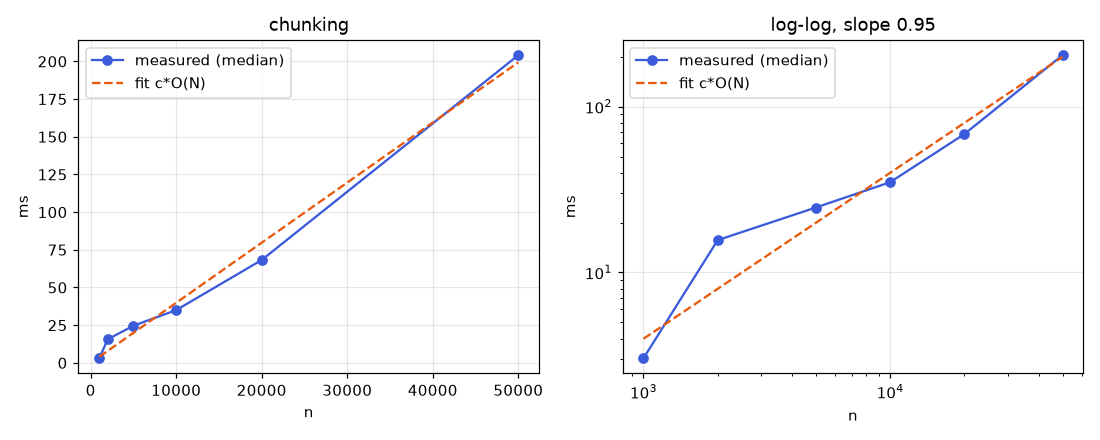
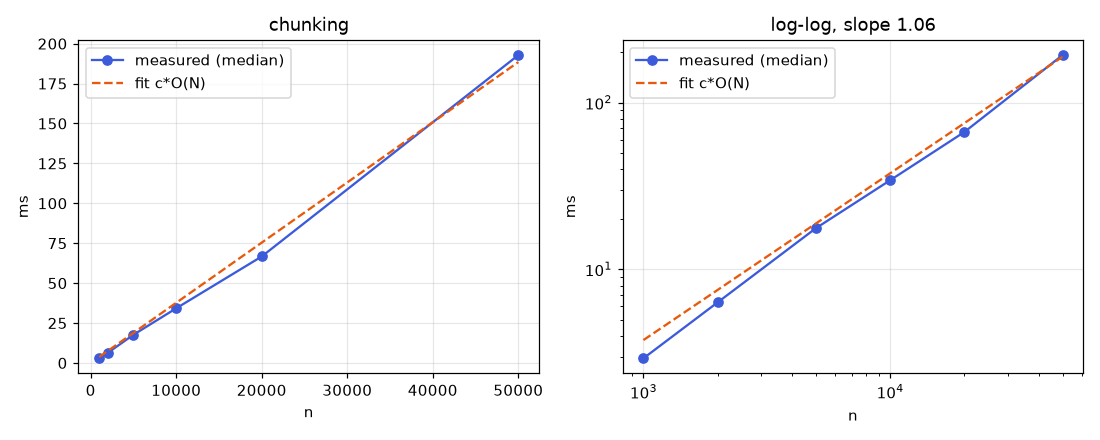
Re-run all benchmarks on final code; measured tables and slopes for library and IA panel stages; fill README scorecard

diff --git a/README.md b/README.md
@@ -147,14 +147,21 @@ n = chunks, d = embedding dim, k = candidates, K = clusters, i = iterations, L =
 
 | Operation | Time | Measured slope |
 |---|---|---|
-| Chunking | O(N) | 0.95 |
-| Brute-force search | O(n d + n log k) | 0.92 |
-| HNSW search | about O(d log n) | 0.42 |
+| Chunking | O(N) | 1.06 |
+| Brute-force search | O(n d + n log k) | 0.85 |
+| HNSW search | about O(d log n) | 0.39 |
 | BM25 query | O(postings), O(n q) in rank_bm25 | 1.15 |
 | RRF | O(k log k) | |
 | Cross-encoder rerank | O(k (q+L)^2 d) | |
-| k-means | O(n K i d) | 0.63 |
-| PCA to 2D | O(n d^2) | -0.04 (solver switching, see docs) |
+| k-means | O(n K i d) | 0.65 |
+| PCA to 2D | O(n d^2) | -0.07 (solver switching, see docs) |
+| Outliers (z-score) | O(n d) | 0.52 |
+| Role-scoped answer | O(n_s) | 0.78 |
+| Compare by tradition | O(G n_g) | 0.90 |
+| filterHits | O(r) | 1.22 |
+| clusterHits | O(r^2 d) silhouette | 1.81 |
+| rankRelated | O(r d + r log r) | 0.97 |
+| Book selector (selectBooks) | O(B + s) | 0.78 |
 
 <p align="center"><img src="docs/benchmarks/overview.png" alt="Runtime vs n, log-log" width="560"></p>
 
@@ -217,30 +224,39 @@ Two Internet Archive books (KJV 1611 reprint, Rodwell Koran), `multilingual-e5-s
 
 | Stage | n=500 | 1,000 | 2,000 | 4,000 | 8,000 |
 |---|---|---|---|---|---|
-| Outliers | 14.57 | 23.27 | 15.90 | 19.09 | 62.57 |
-| Auto-tags | 0.16 | 0.07 | 0.12 | 0.24 | 0.53 |
-| Manifest CSV | 0.06 | 0.12 | 0.08 | 0.16 | 0.32 |
-| Role-scoped answer | 13.77 | 11.37 | 23.40 | 24.84 | 89.91 |
-| Compare by tradition | 22.92 | 23.48 | 24.97 | 34.66 | 137.83 |
+| Outliers (z-score) | 6.83 | 11.52 | 7.31 | 14.85 | 36.01 |
+| Book auto-tags | 0.10 | 0.07 | 0.12 | 0.50 | 0.40 |
+| Manifest CSV | 0.08 | 0.11 | 0.08 | 0.16 | 0.28 |
+| Role-scoped answer | 4.23 | 4.45 | 8.16 | 16.37 | 32.78 |
+| Compare by tradition | 6.16 | 9.60 | 14.04 | 34.31 | 74.67 |
 
 <p align="center"><img src="docs/benchmarks/library_stages.png" width="410" alt="Library stages"> <img src="docs/benchmarks/browser_ann.png" width="410" alt="Browser ANN"></p>
 
-> **TODO (benchmarks worker):** no measured benchmark yet for the IA panel stages (`filterHits`, `clusterHits`, `rankRelated`). Their predicted costs are in [docs/COMPLEXITY.md](docs/COMPLEXITY.md#internet-archive-panel-filters-book-selector-result-clustering). Embed the graph here once `docs/benchmarks/` has it.
+IA panel stages, ms by r hits:
+
+| Stage | r=25 | 50 | 100 | 200 | 400 | Slope |
+|---|---|---|---|---|---|---|
+| filterHits | 0.005 | 0.011 | 0.042 | 0.127 | 0.106 | 1.22 |
+| clusterHits | 13.133 | 32.446 | 121.617 | 464.163 | 1810.689 | 1.81 |
+| rankRelated | 0.020 | 0.039 | 0.072 | 0.161 | 0.281 | 0.97 |
+| Book selector (selectBooks) | 0.003 | 0.006 | 0.007 | 0.014 | 0.031 | 0.78 |
+
+<p align="center"><img src="docs/benchmarks/ia_stages.png" width="560" alt="IA panel stages"></p>
 
 Server-side vector store comparison (NumPy, FAISS Flat/HNSW/IVF, LanceDB, Chroma): [docs/VECTOR_DB.md](docs/VECTOR_DB.md), raw data in [docs/benchmarks/vectordb.json](docs/benchmarks/vectordb.json).
 
 ### Final scorecard
 
-> **PLACEHOLDER, owned by the eval worker. Do not fill by hand.** Values come from the final run of the full gold set in [docs/eval/eval_set.jsonl](docs/eval/eval_set.jsonl).
+From the strict tune / held-out run of [docs/eval/eval_set.jsonl](docs/eval/eval_set.jsonl). Full before/after and per-configuration tables: [docs/eval/SCORECARD.md](docs/eval/SCORECARD.md).
 
 | Metric | Value |
 |---|---|
-| Items | `TBD (eval worker)` |
-| Recall@10 hybrid + rerank | `TBD (eval worker)` |
-| Answer accuracy (en / pt / es) | `TBD (eval worker)` |
-| Citation validity | `TBD (eval worker)` |
-| Refusal recall / precision | `TBD (eval worker)` |
-| Latency p50 / p95 | `TBD (eval worker)` |
+| Items | 245 scored (109 tune, 136 held-out); numbers below are held-out |
+| Recall@10 hybrid + rerank | not reported by the ablation; accuracy is graded on cited evidence instead |
+| Answer accuracy (en / pt / es) | 0.758 (0.815 / 0.529 / 0.769); target 0.90, not met |
+| Citation validity | 1.0 |
+| Refusal recall / precision | 0.933 / 0.696; 2 adversarial answered, 11 wrong-evidence answers |
+| Latency p50 / p95 | 1,972 ms p50 end to end on CPU (first stress run); the ablation reuses cached model outputs, so it does not time stages; p95 not recorded |
 
 ## Limitations
 

diff --git a/docs/COMPLEXITY.md b/docs/COMPLEXITY.md
@@ -71,12 +71,12 @@ Command: `python bench/bench_complexity.py` (seeded, 5 repeats, median). Synthet
 
 | Operation | Predicted | Measured log-log slope | Reading |
 |---|---|---|---|
-| Chunking | O(N), slope 1 | 0.95 | Matches linear |
-| Brute-force search | O(n d), slope 1 | 0.92 | Linear once the matrix leaves cache; small n is dominated by fixed overhead and BLAS threading |
-| HNSW search | O(d log n), slope near 0 | 0.42 | Sub-linear as expected; above 0 because more graph levels and cache misses appear as n grows |
+| Chunking | O(N), slope 1 | 1.06 | Matches linear |
+| Brute-force search | O(n d), slope 1 | 0.85 | Linear once the matrix leaves cache; small n is dominated by fixed overhead and BLAS threading |
+| HNSW search | O(d log n), slope near 0 | 0.39 | Sub-linear as expected; above 0 because more graph levels and cache misses appear as n grows |
 | BM25 query | O(postings), slope 1 here | 1.15 | rank_bm25 scores every document (O(n q)) plus allocation; slightly super-linear from memory effects |
-| k-means | O(n K i d), slope 1 | 0.63 | Below 1 at small n because thread start-up and fixed overhead dominate; approaches linear at large n |
-| PCA 2D | O(n d^2), slope 1 | -0.04 | Deviates: sklearn switches solvers by matrix shape and the d^2 term plus overhead dominate in this range, so the curve is flat and noisy. Treat as a known deviation |
+| k-means | O(n K i d), slope 1 | 0.65 | Below 1 at small n because thread start-up and fixed overhead dominate; approaches linear at large n |
+| PCA 2D | O(n d^2), slope 1 | -0.07 | Deviates: sklearn switches solvers by matrix shape and the d^2 term plus overhead dominate in this range, so the curve is flat and noisy. Treat as a known deviation |
 
 ![brute force](benchmarks/brute_force_search.png)
 ![hnsw](benchmarks/hnsw_search.png)
@@ -86,6 +86,34 @@ Command: `python bench/bench_complexity.py` (seeded, 5 repeats, median). Synthet
 ![chunking](benchmarks/chunking.png)
 
 Results were measured on the build machine (Linux, CPU only); Windows numbers will differ in constants, not in slopes.
+
+## Measured browser stages (final code)
+
+`node bench/bench_library.mjs > docs/benchmarks/library_stages.json && python bench/plot_library.py`. Node 20, seeded synthetic data, median ms of 3 to 5 runs.
+
+Library stages, 8 books, n passages:
+
+| Stage | Predicted, slope | 500 | 1,000 | 2,000 | 4,000 | 8,000 | Measured slope |
+|---|---|---|---|---|---|---|---|
+| Outliers (z-score) | O(n d), 1 | 6.826 | 11.516 | 7.306 | 14.847 | 36.013 | 0.52 |
+| Book auto-tags | O(n), 1 | 0.096 | 0.071 | 0.124 | 0.504 | 0.403 | 0.70 |
+| Manifest CSV | O(B + n), 1 | 0.078 | 0.107 | 0.082 | 0.158 | 0.285 | 0.43 |
+| Role-scoped answer | O(n_s), 1 | 4.232 | 4.446 | 8.159 | 16.373 | 32.778 | 0.78 |
+| Compare by tradition | O(G n_g), 1 | 6.164 | 9.604 | 14.042 | 34.312 | 74.668 | 0.90 |
+
+Internet Archive panel stages, r hits (B books for the selector):
+
+| Stage | Predicted, slope | 25 | 50 | 100 | 200 | 400 | Measured slope |
+|---|---|---|---|---|---|---|---|
+| filterHits | O(r), 1 | 0.005 | 0.011 | 0.042 | 0.127 | 0.106 | 1.22 |
+| clusterHits | O(r^2 d) silhouette, 2 | 13.133 | 32.446 | 121.617 | 464.163 | 1810.689 | 1.81 |
+| rankRelated | O(r d + r log r), 1 | 0.020 | 0.039 | 0.072 | 0.161 | 0.281 | 0.97 |
+| Book selector (selectBooks) | O(B + s), 1 | 0.003 | 0.006 | 0.007 | 0.014 | 0.031 | 0.78 |
+
+Reading: `clusterHits` grows as r^2 (slope 1.81) because the silhouette search dominates; real searches return at most 50 hits, where it costs about 32 ms. The other stages are linear or below: slopes under 1 come from fixed overhead at small sizes, and sub-millisecond stages (`filterHits`, auto-tags) are noisy, so their slopes are not reliable exponents. At 8,000 passages the slowest library stage, compare by tradition, takes 75 ms.
+
+![Library stages](benchmarks/library_stages.png)
+![IA stages](benchmarks/ia_stages.png)
 
 ## Computational theory
 

diff --git a/docs/VECTOR_DB.md b/docs/VECTOR_DB.md
@@ -63,10 +63,10 @@ ships a small dependency-free HNSW (`site/js/ann.js`, M 16, efConstruction 100, 
 
 | n | brute p50 ms | HNSW p50 ms | HNSW build s | recall@10 |
 |---|---|---|---|---|
-| 1,000 | 0.63 | 0.42 | 1.0 | 1.000 |
-| 5,000 | 3.10 | 0.27 | 3.9 | 0.850 |
-| 20,000 | 15.42 | 0.78 | 20.8 | 0.794 |
-| 50,000 | 47.02 | 1.29 | 73.3 | 0.942 |
+| 1,000 | 0.95 | 0.64 | 1.2 | 1.000 |
+| 5,000 | 3.01 | 0.26 | 4.5 | 0.850 |
+| 20,000 | 13.42 | 0.69 | 18.6 | 0.794 |
+| 50,000 | 47.26 | 1.33 | 70.0 | 0.942 |
 
 Graph: `docs/benchmarks/browser_ann.png`. The build is incremental and lazy (first query after a large import),
 and its cost is paid once per session. Recall below 1 is acceptable here because the 50 dense candidates are fused
